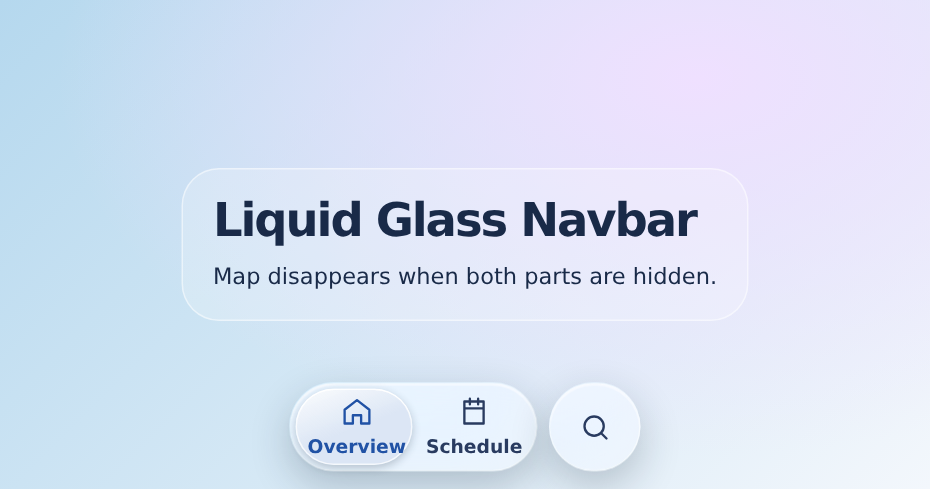
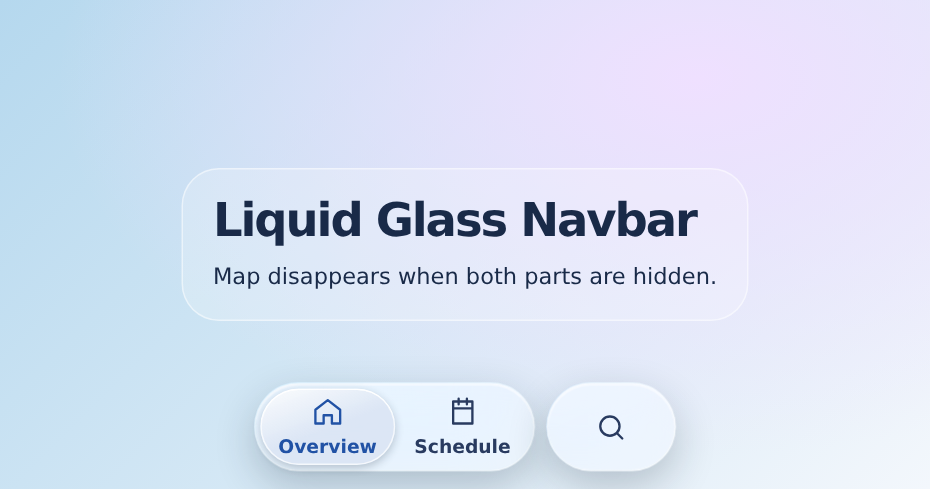
Keep tab labels inside the selection lens

Changed region(s): [[0.2806, 0.7669, 0.5613, 0.9509], [0.6237, 0.8282, 0.7172, 0.9816], [0.5613, 0.8589, 0.5925, 0.8896]]

diff --git a/examples/demo.css b/examples/demo.css
@@ -18,11 +18,11 @@ p { margin: 9px 0; }
   display: grid;
   align-content: center;
   justify-items: center;
-  flex: 0 1 78px;
+  flex: 0 0 auto;
   gap: 4px;
-  min-width: 53px;
+  min-width: 78px;
   min-height: 51px;
-  padding: 5px 8px;
+  padding: 5px 12px;
   font: 650 .78rem system-ui, sans-serif;
   white-space: nowrap;
 }

diff --git a/src/navbar.css b/src/navbar.css
@@ -46,7 +46,9 @@
   min-height: 49px;
   align-content: center;
   border-radius: 999px;
-  padding: 5px 2px;
+  padding: 5px 10px;
+  flex-shrink: 0;
+  white-space: nowrap;
   line-height: 1.15;
   font-size: .67rem;
   font-weight: 600;
